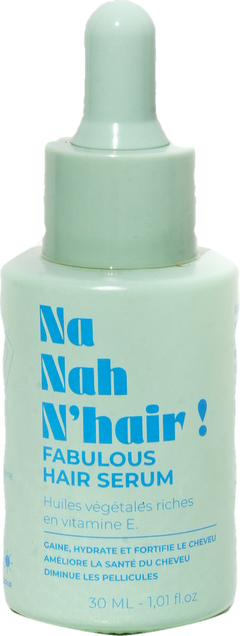
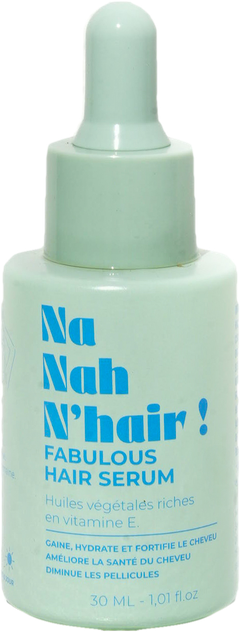
Accueil : nouveau flacon Fabulous détouré dans le premier écran
Claude-Session: https://claude.ai/code/session_01KwQkw9StVFPJQs6Mch67k4

diff --git a/na-nah-nhair/lib/cutouts.ts b/na-nah-nhair/lib/cutouts.ts
@@ -15,8 +15,9 @@ export const cutoutSrcSet = (slug: ProductTheme) =>
 export const cutoutFallback = (slug: ProductTheme) => `/images/produits/${slug}-detoure-max.png`;
 
 // Premier écran de l'accueil : version de référence (24/10/2026) pour Luxurious (modification 51) ; Miraculous
-// et Fabulous remplacés par les fichiers des modifications 56 et 67 (jamais agrandis)
-export const heroWidths: Record<ProductTheme, readonly number[]> = { fabulous: [240, 471], miraculous: [240, 470], luxurious: [240, 480, 720] };
-export const heroHeight: Record<ProductTheme, number> = { fabulous: 636, miraculous: 629, luxurious: 640 };
+// remplacé par le fichier de la modification 56, Fabulous par assets/images/accueil/fabulous-detoure.png (03/11/2026,
+// marges transparentes retirées) ; jamais agrandis
+export const heroWidths: Record<ProductTheme, readonly number[]> = { fabulous: [240, 474], miraculous: [240, 470], luxurious: [240, 480, 720] };
+export const heroHeight: Record<ProductTheme, number> = { fabulous: 632, miraculous: 629, luxurious: 640 };
 export const heroSrcSet = (slug: ProductTheme, ext: "webp" | "png") =>
   heroWidths[slug].map((w) => `/images/produits/${slug}-accueil-${w}.${ext} ${w}w`).join(", ");

diff --git a/na-nah-nhair/INFOS.md b/na-nah-nhair/INFOS.md
@@ -414,3 +414,4 @@ Ces décisions de la propriétaire de la marque complètent et remplacent les pa
 - **Miraculous** : « Le soin par lequel tout a commencé, en premier, pour celle qui est déterminée, ambitieuse et audacieuse. » partout (modification 77).
 - **Luxurious** : « Je suis féminine, élégante et sensuelle. » (modification 79).
 
+- **Premier écran de l accueil (03/11/2026)** : flacon Fabulous remplacé par `assets/images/accueil/fabulous-detoure.png` (marges transparentes retirées, même taille et même place). Les autres images du flacon (boutique, fiches, « Quel soin est le tien ? ») ne changent pas.
